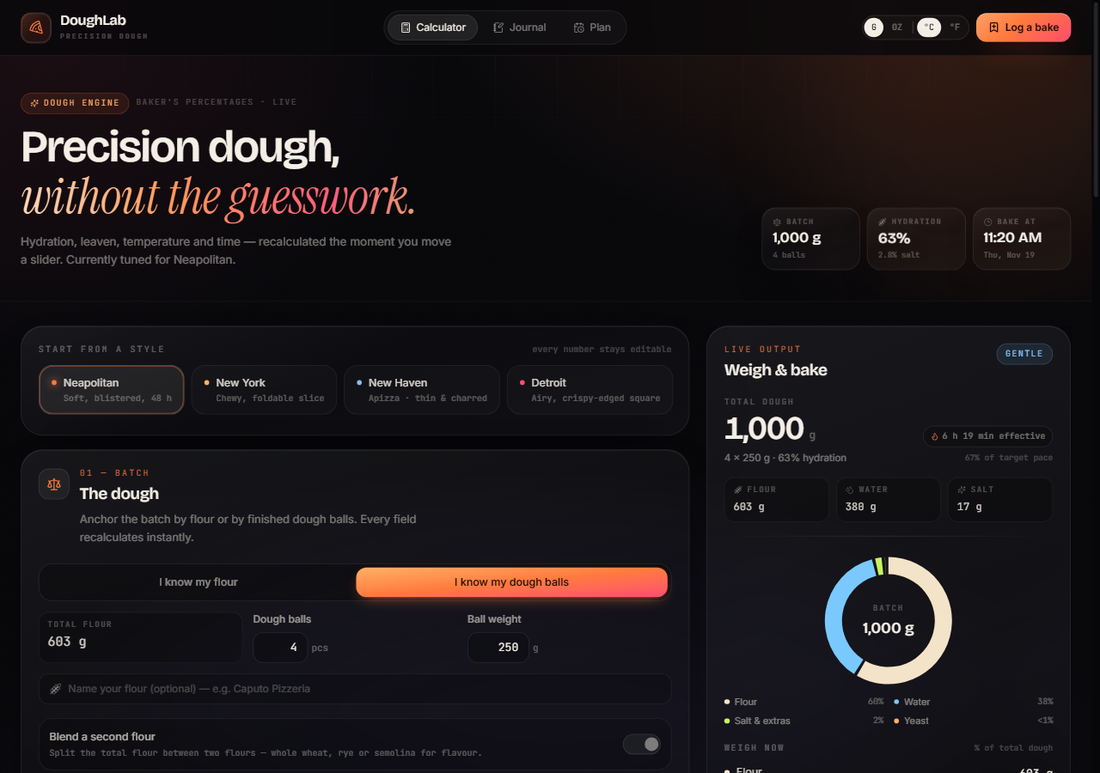
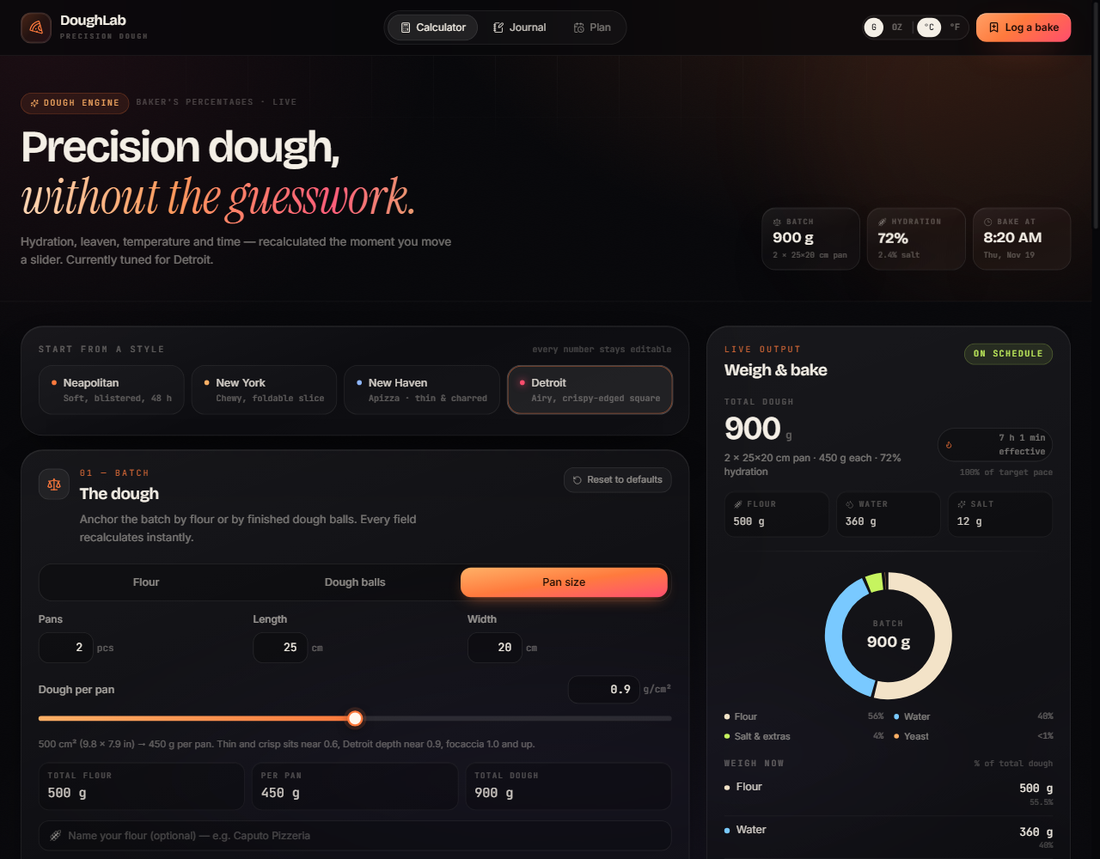
Refresh the README screenshots for the current app
The old shots predated the third sizing mode, the reset button, the first-run
card and the backup panel's restore points and Clear all data. Recaptured the
calculator, journal and backup panel at desktop (1280 px) and phone (390 px)
widths from the running app with example bakes, swapped the photo-read column
for Backup & restore, rewrote every caption and alt text, and moved the
photo-read image into the AI section where it still describes the app.

🤖 Generated with Codebuff

diff --git a/README.md b/README.md
@@ -38,11 +38,11 @@ That's it. Everything below is optional detail.
 Real screenshots of the app at desktop (1280 px) and phone (390 px) widths. The bakes in the journal
 are example entries, not someone's real dinner.
 
-| **The calculator** | **The journal** | **Photo read** |
+| **The calculator** | **The journal** | **Backup & restore** |
 | --- | --- | --- |
-| <a href="docs/screenshots/calculator-desktop.png"><img src="docs/screenshots/calculator-desktop.png" width="300" alt="DoughLab calculator on a desktop browser, with style presets, batch sizing and the live weigh-and-bake panel"></a> | <a href="docs/screenshots/journal-desktop.png"><img src="docs/screenshots/journal-desktop.png" width="300" alt="DoughLab journal on a desktop browser, showing saved bake cards with photos, ratings and filters"></a> | <a href="docs/screenshots/photo-read-desktop.png"><img src="docs/screenshots/photo-read-desktop.png" width="240" alt="A saved bake open on desktop, with a photo read listing what the model saw, suggested tags and scores"></a> |
-| <a href="docs/screenshots/calculator-phone.png"><img src="docs/screenshots/calculator-phone.png" width="150" alt="DoughLab calculator on a phone, with the same style presets and batch controls stacked"></a> | <a href="docs/screenshots/journal-phone.png"><img src="docs/screenshots/journal-phone.png" width="150" alt="DoughLab journal on a phone, showing the stats row, insights and bake list"></a> | <a href="docs/screenshots/photo-read-phone.png"><img src="docs/screenshots/photo-read-phone.png" width="150" alt="The photo read card on a phone: saved read, observations, tags and Apply to log"></a> |
-| Pick a style, say how much dough you want, and the panel on the right shows exactly what to weigh plus the start-to-oven schedule. On a phone the same controls stack in the same order. | Every saved bake becomes a card with its photo, stars, style and date. Filter by style or “awaiting rating”, open one to compare or carry forward, and use **Insights** to look for patterns across bakes. | Once you tap Analyze, the app lists what it can see in the photo and suggests tags and scores. **Apply to log** copies them onto the bake — until then, nothing changes. |
+| <a href="docs/screenshots/calculator-desktop.png"><img src="docs/screenshots/calculator-desktop.png" width="300" alt="DoughLab calculator on a desktop browser: the Detroit preset loaded in Pan size mode, with pan dimensions, dough per square centimetre and the live weigh-and-bake panel"></a> | <a href="docs/screenshots/journal-desktop.png"><img src="docs/screenshots/journal-desktop.png" width="300" alt="DoughLab journal on a desktop browser: three saved bakes, filters, ratings, a photographed bake and the browser storage meter"></a> | <a href="docs/screenshots/backup-desktop.png"><img src="docs/screenshots/backup-desktop.png" width="300" alt="The backup and restore panel on desktop: export, three restore points, file restore and the guarded Clear all data section"></a> |
+| <a href="docs/screenshots/calculator-phone.png"><img src="docs/screenshots/calculator-phone.png" width="150" alt="The calculator on a 390 px phone: the three batch sizing modes with pan dimensions, dough per pan and the reset button"></a> | <a href="docs/screenshots/journal-phone.png"><img src="docs/screenshots/journal-phone.png" width="150" alt="The journal on a phone sorted by highest rated, showing the photographed bake with its stars and notes"></a> | <a href="docs/screenshots/backup-phone.png"><img src="docs/screenshots/backup-phone.png" width="150" alt="The backup panel on a phone, from the export card through the restore points to Clear all data"></a> |
+| Pick a style, then size the batch three ways: by flour, by dough balls, or by **pan size** — a pan's length and width plus dough per cm², so a Detroit tray becomes a real weight instead of a guess. **Reset to defaults** sits beside the batch card, and the right-hand panel shows exactly what to weigh. On a phone the same controls stack in order. | Every bake becomes a card with its photo, stars, style, tags and notes. **CSV** and **Backup** sit in the header, the filters narrow by style or by “awaiting rating”, and the storage meter shows what the journal costs in this browser. | One JSON file holds every bake, photo, rating and note. The same panel lists the **restore points** DoughLab keeps by itself and hides **Clear all data** — which also deletes every pizza — behind a second tap. On a phone those sections stack in the same order. |
 
 ### What the main screens are for
 
@@ -316,6 +316,11 @@ scripts/             Icon generation
 
 All AI features require your own key, run from the client, and never happen without an explicit tap.
 See [Optional AI configuration](#optional-ai-configuration) for the cost and key-exposure trade-offs.
+
+![A saved photo read on a desktop screen](docs/screenshots/photo-read-desktop.png)
+
+*Once you tap Analyze, the saved photo read lists what the model could see, the tags it suggests
+and the scores you can apply. Nothing changes on the bake until you tap Apply to log.*
 
 ## Everyday tasks
 
